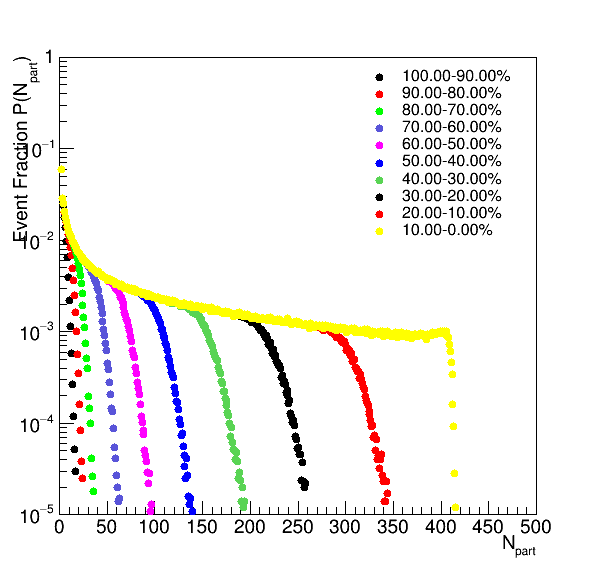
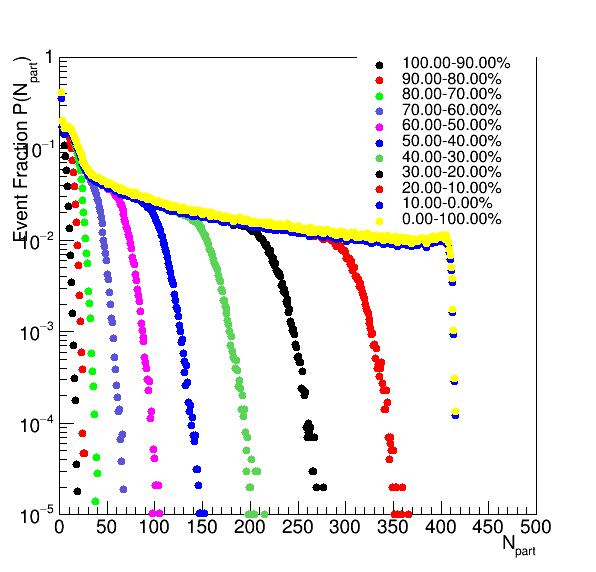
Npartdis

diff --git a/centrality/NBD/PbPb/double_side/DrawTHStack.C b/centrality/NBD/PbPb/double_side/DrawTHStack.C
@@ -5,7 +5,7 @@
 void DrawTHStack(){
         static const int nColor = 11;
         static const int colorCode[nColor] = {
-        1,2,3,9,6,4,8,1,2,5,4};
+        1,2,3,9,6,4,8,1,2,4,5};
 	gStyle->SetOptStat(kFALSE);
 	int sth=0; int Gth=0;
 	TFile *f = TFile::Open(outG);
@@ -36,7 +36,7 @@ void DrawTHStack(){
         	else {dirname ="Gri101";}
 		hs[sth] = (THStack*)f->Get(Form("%s/%s/Npartdis",dirname.Data(),name.Data()));
                 h[sth].resize(N);
-                for(int i=0;i<N-1;i++){
+                for(int i=0;i<N;i++){
 //		h[sth][i] = (TH1D*)hs[sth]->GetStack()->At(N-1);
 		h[sth][i] = (TH1D*)hs[sth]->GetStack()->At(i);
 		h[sth][i]->SetLineColor(colorCode[i]);
@@ -48,12 +48,13 @@ void DrawTHStack(){
                 }
 	}
     std::vector<TString> label(N);
-	TLegend *leg0 = new TLegend(0.60,0.58,0.90,0.88);
+	TLegend *leg0 = new TLegend(0.60,0.60,0.90,0.90);
     leg0->SetFillColor(10);
     leg0->SetBorderSize(0);
     leg0->SetTextFont(42);
     leg0->SetTextSize(0.030);
-    for(int i=0;i<N-1;i++){
+    centbin->Print();
+    for(int i=0;i<N;i++){
 	if(method==0)label[i] = Form("%.2f-%.2f%%",(*centbin)[i]*100,(*centbin)[i+1]*100);
 	else label[i] = Form("%.2f-%.2f",(*kpoint)[i],(*kpoint)[i+1]);
 //    leg0->AddEntry(h[0][i],"standard","p");

diff --git a/centrality/NBD/PbPb/NBDclass.C b/centrality/NBD/PbPb/NBDclass.C
@@ -278,7 +278,7 @@ void NBD::calcvar(){
                 	NcollAver[i]/=PartEvent[i];
                         NpartAver[i]/=PartEvent[i];
                         BAver[i]/=PartEvent[i];
-			hNpart[i]->Scale(1.0/TotalEvent);
+			hNpart[i]->Scale(1.0/PartEvent[i]);
 			Npartdis->Add(hNpart[i]);
          	}
 	}
